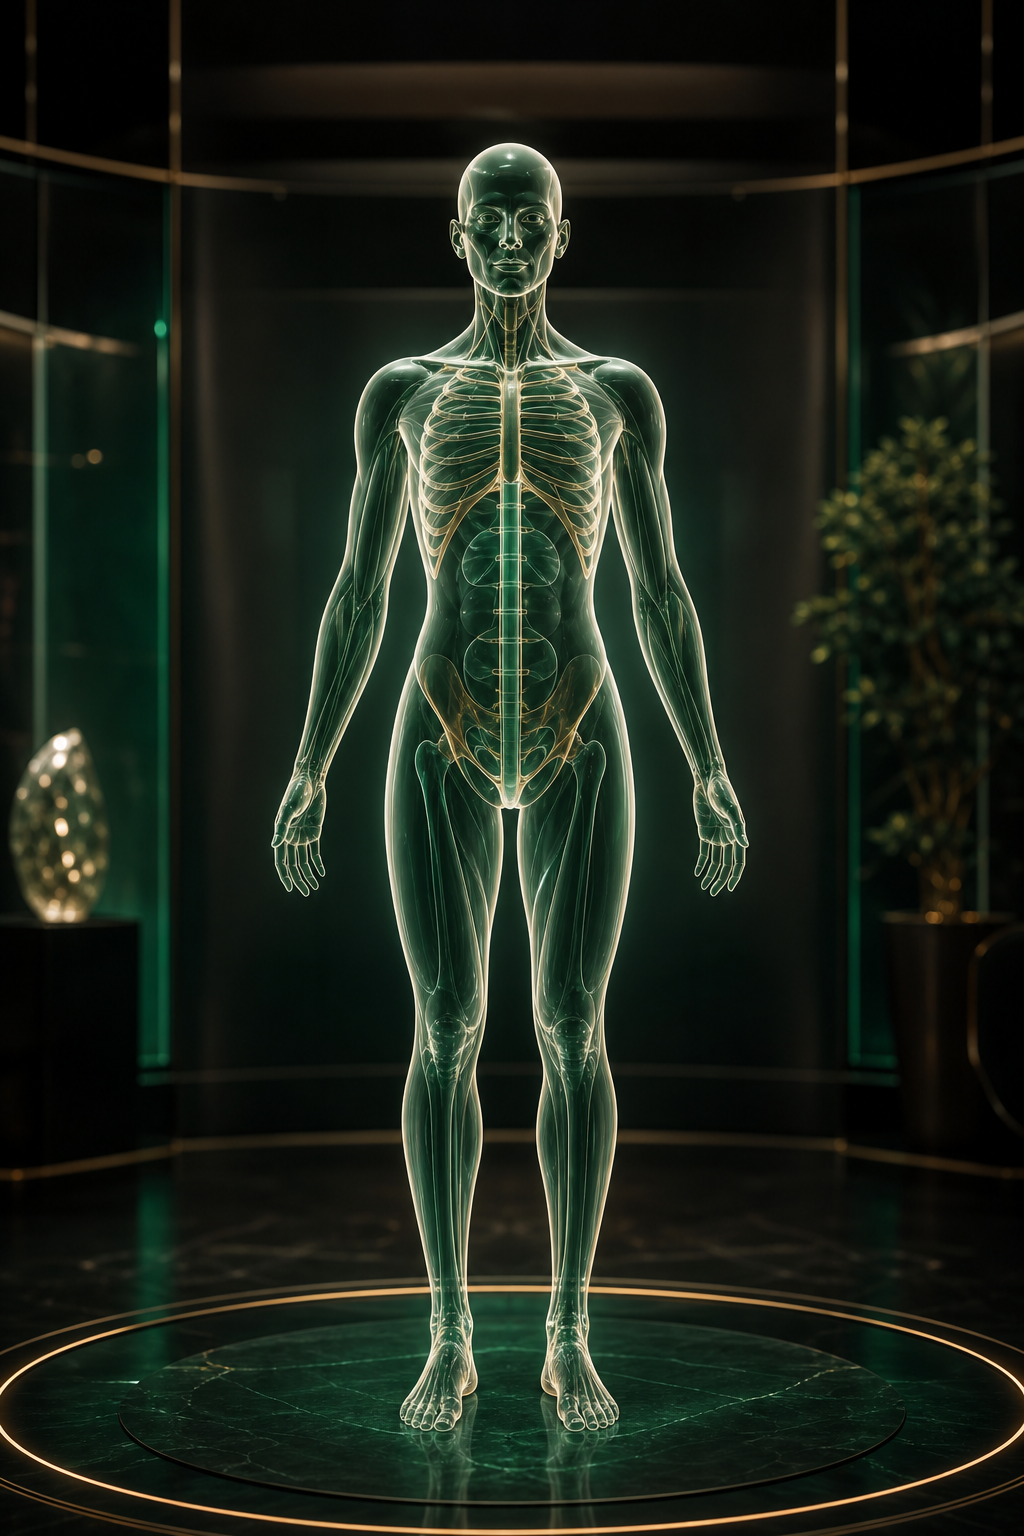
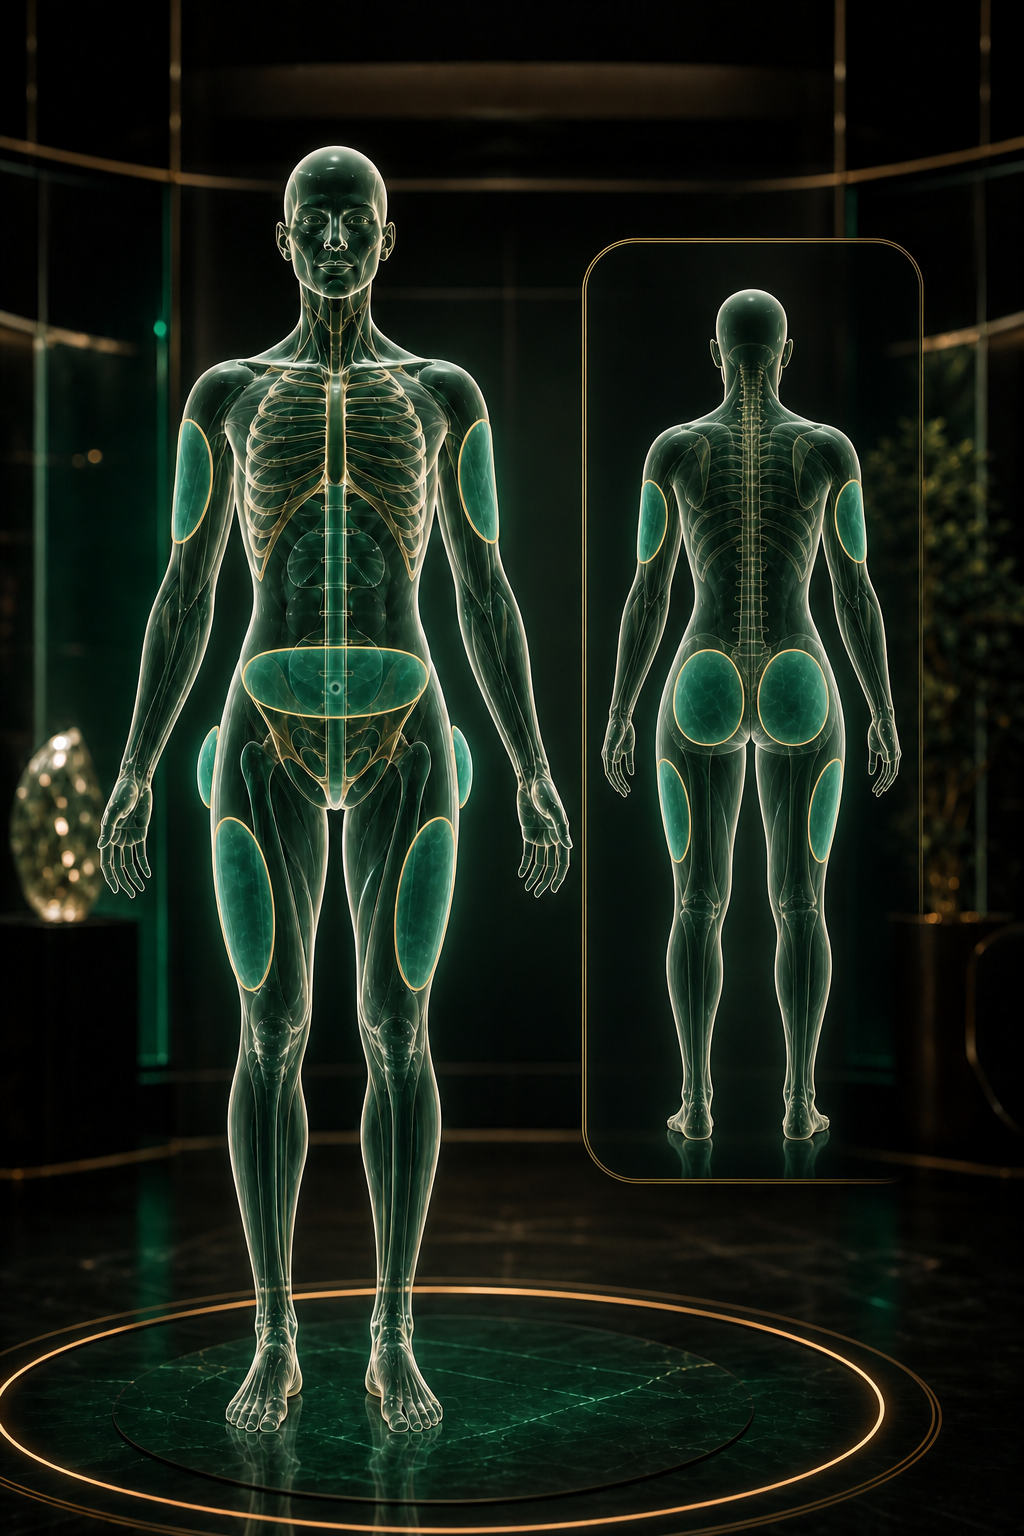
Show full peptide injection rotation sites

diff --git a/index.html b/index.html
@@ -931,9 +931,8 @@
       font-weight: 800;
     }
     .rotation-list li {
-      display: flex;
-      justify-content: space-between;
-      gap: 16px;
+      display: grid;
+      gap: 6px;
       padding: 10px 12px;
       border: 1px solid rgba(255,255,255,.1);
       border-radius: 6px;
@@ -941,6 +940,9 @@
     }
     .rotation-list span {
       color: var(--champagne-2);
+      font-size: 11px;
+      line-height: 1.45;
+      font-weight: 700;
     }
     .console-stage {
       position: relative;
@@ -2039,9 +2041,9 @@
                 <h3>Cycle planning, site rotation, and dose tracking.</h3>
                 <p>Emerald organizes injection-site education, rotation history, cycle notes, timing, lab context, and provider-review questions so peptide conversations stay clear, documented, and clinician-ready.</p>
                 <ul class="rotation-list">
-                  <li>Current site <span>Abdomen · Left</span></li>
-                  <li>Next site <span>Abdomen · Right</span></li>
-                  <li>Protocol status <span>Provider-review ready</span></li>
+                  <li>Current Site Options <span>Lower abdomen, upper outer arms, outer thighs, glutes</span></li>
+                  <li>Next Site Options <span>Rotate to the opposite side or next approved area after provider guidance</span></li>
+                  <li>Rotation Areas Shown <span>Front abdomen, front arms, outer thighs, back arms, glutes</span></li>
                 </ul>
               </div>
             </div>